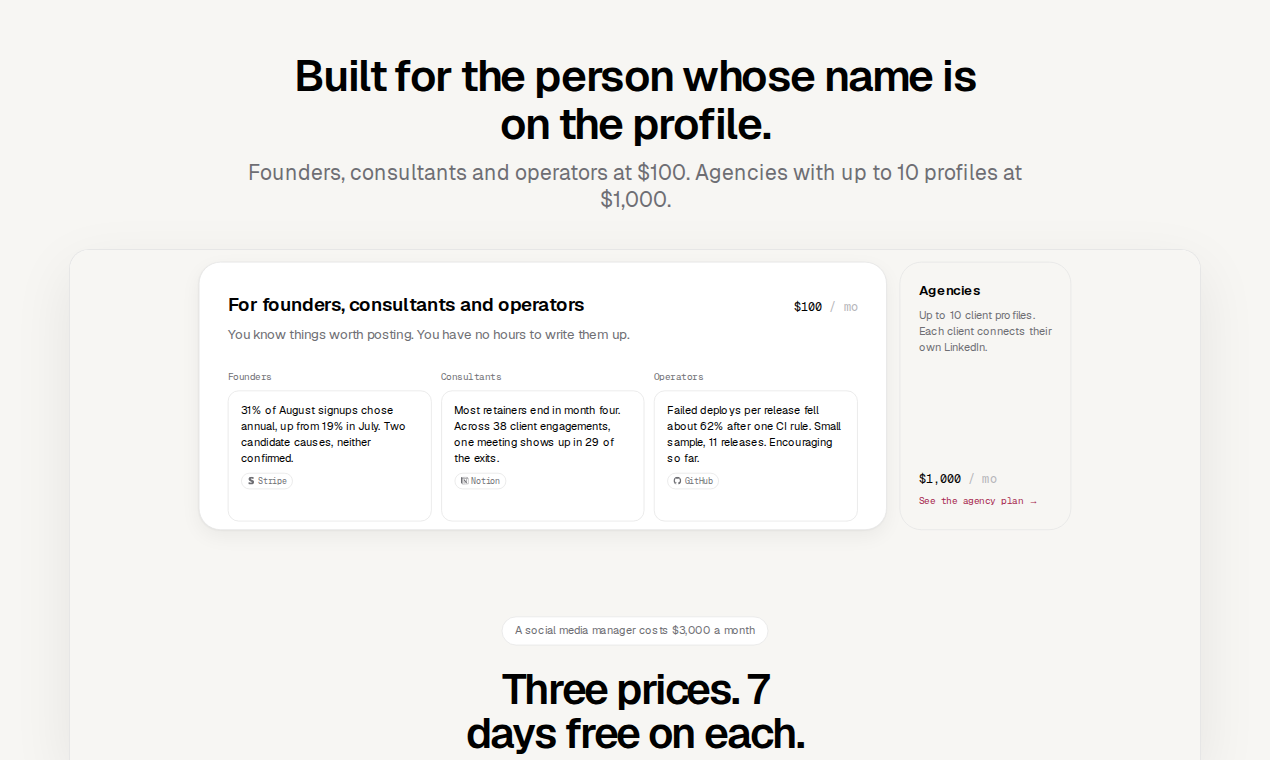
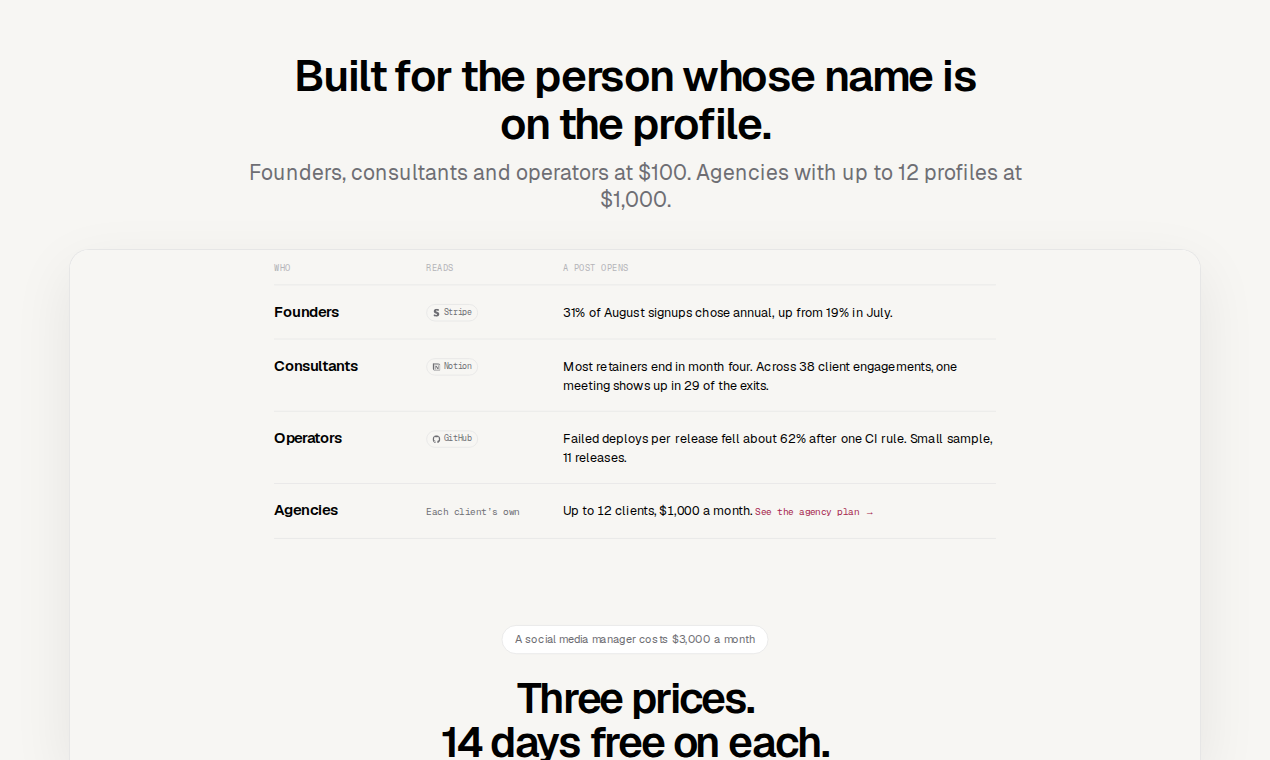
Agency covers up to 12 profiles, as the offer says
AGENCY_SEATS in lib/legal.ts was 10, while the offer in CLAUDE.md,
DECISIONS.md and the schema all say 12. It is now 12, and every page that
read it follows: landing page, pricing cards, footer, terms, docs,
settings, and the seat limit the Stripe webhook writes. Consultancy shares
the constant and moves to 12 with it.

The comparison pages and two blog posts had "up to 10" typed into the copy.
Those strings now read the constant. The Product Hunt kit and the gallery
captions say 12, and the gallery is regenerated from a local build.

share-export.ts now forces reduced motion, because the landing page's
reveal transitions run on the wall clock and the pricing slide was being
captured with two cards half faded in.

Claude-Session: https://claude.ai/code/session_0184tRc2cUZwb6aUefFBfYd7

diff --git a/lib/content/compare.ts b/lib/content/compare.ts
@@ -1,4 +1,5 @@
 import type { Comparison } from "./types";
+import { AGENCY_SEATS } from "@/lib/legal";
 
 export const COMPARISONS: Comparison[] = [
   {
@@ -44,7 +45,7 @@ export const COMPARISONS: Comparison[] = [
       {
         label: "Pricing model",
         them: "Free plan, then paid per connected channel",
-        us: "$100 a month per profile, $1,000 for up to 10. 14 days free",
+        us: `$100 a month per profile, $1,000 for up to ${AGENCY_SEATS}. 14 days free`,
       },
     ],
     chooseThem: [
@@ -92,7 +93,7 @@ export const COMPARISONS: Comparison[] = [
     summary:
       "Hootsuite is a complete social media suite, with scheduling, a shared inbox, listening and reporting across every major network in one place.",
     verdict:
-      "Pick Hootsuite if you run a brand's social presence across many networks and need an inbox, listening and reports for a team. Pick GoodSocials if the job is getting one person, or ten clients, posting on LinkedIn every day without writing the posts.",
+      "Pick Hootsuite if you run a brand's social presence across many networks and need an inbox, listening and reports for a team. Pick GoodSocials if the job is getting one person, or a dozen clients, posting on LinkedIn every day without writing the posts.",
     rows: [
       {
         label: "Built for",
@@ -127,7 +128,7 @@ export const COMPARISONS: Comparison[] = [
       {
         label: "Pricing model",
         them: "Per user, tiers by accounts and features, no permanent free plan",
-        us: "$100 a month per profile, $1,000 for up to 10. 14 days free",
+        us: `$100 a month per profile, $1,000 for up to ${AGENCY_SEATS}. 14 days free`,
       },
     ],
     chooseThem: [
@@ -168,7 +169,7 @@ export const COMPARISONS: Comparison[] = [
       { type: "h2", text: "Cost and fit" },
       {
         type: "p",
-        text: "Hootsuite prices per user, with tiers that add accounts and features, and a free trial rather than a free plan; check their pricing page for current numbers. For a team of three that bill grows quickly. GoodSocials is $100 a month per LinkedIn profile, or $1,000 a month for up to 10 profiles on Agency, with no per-seat charge.",
+        text: `Hootsuite prices per user, with tiers that add accounts and features, and a free trial rather than a free plan; check their pricing page for current numbers. For a team of three that bill grows quickly. GoodSocials is $100 a month per LinkedIn profile, or $1,000 a month for up to ${AGENCY_SEATS} profiles on Agency, with no per-seat charge.`,
       },
     ],
   },
@@ -215,7 +216,7 @@ export const COMPARISONS: Comparison[] = [
       {
         label: "Pricing model",
         them: "Per seat per month, tiers by feature, free trial",
-        us: "$100 a month per profile, $1,000 for up to 10. 14 days free",
+        us: `$100 a month per profile, $1,000 for up to ${AGENCY_SEATS}. 14 days free`,
       },
     ],
     chooseThem: [
@@ -251,7 +252,7 @@ export const COMPARISONS: Comparison[] = [
       { type: "h2", text: "Pricing" },
       {
         type: "p",
-        text: "Sprout Social charges per seat per month, with plan tiers that add features, and offers a free trial; check their pricing page for current rates. GoodSocials has no seats. It is $100 a month per LinkedIn profile, $1,000 for up to 10.",
+        text: `Sprout Social charges per seat per month, with plan tiers that add features, and offers a free trial; check their pricing page for current rates. GoodSocials has no seats. It is $100 a month per LinkedIn profile, $1,000 for up to ${AGENCY_SEATS}.`,
       },
     ],
   },
@@ -298,7 +299,7 @@ export const COMPARISONS: Comparison[] = [
       {
         label: "Pricing model",
         them: "Limited free plan, tiers by social sets, users and post limits",
-        us: "$100 a month per profile, $1,000 for up to 10. 14 days free",
+        us: `$100 a month per profile, $1,000 for up to ${AGENCY_SEATS}. 14 days free`,
       },
     ],
     chooseThem: [
@@ -382,7 +383,7 @@ export const COMPARISONS: Comparison[] = [
       {
         label: "Pricing model",
         them: "Tiered monthly plans, AI features on the higher tiers",
-        us: "$100 a month per profile, $1,000 for up to 10. 14 days free",
+        us: `$100 a month per profile, $1,000 for up to ${AGENCY_SEATS}. 14 days free`,
       },
     ],
     chooseThem: [
@@ -465,7 +466,7 @@ export const COMPARISONS: Comparison[] = [
       {
         label: "Pricing model",
         them: "Per profile tiers, a team plan for agencies, free trial",
-        us: "$100 a month per profile, $1,000 for up to 10. 14 days free",
+        us: `$100 a month per profile, $1,000 for up to ${AGENCY_SEATS}. 14 days free`,
       },
     ],
     chooseThem: [
@@ -501,7 +502,7 @@ export const COMPARISONS: Comparison[] = [
       { type: "h2", text: "Price and agency fit" },
       {
         type: "p",
-        text: "Supergrow is priced per profile in tiers with a separate team plan; check their pricing page, it changes often. It costs less than GoodSocials. The $100 a month buys the writing done without prompts, the gate and the persistence. For agencies, our $1,000 plan covers up to 10 profiles and each client authorises their own LinkedIn, so you never hold a password.",
+        text: `Supergrow is priced per profile in tiers with a separate team plan; check their pricing page, it changes often. It costs less than GoodSocials. The $100 a month buys the writing done without prompts, the gate and the persistence. For agencies, our $1,000 plan covers up to ${AGENCY_SEATS} profiles and each client authorises their own LinkedIn, so you never hold a password.`,
       },
     ],
   },
@@ -548,7 +549,7 @@ export const COMPARISONS: Comparison[] = [
       {
         label: "Pricing model",
         them: "Per user per month, team pricing, free trial",
-        us: "$100 a month per profile, $1,000 for up to 10. 14 days free",
+        us: `$100 a month per profile, $1,000 for up to ${AGENCY_SEATS}. 14 days free`,
       },
     ],
     chooseThem: [
@@ -631,7 +632,7 @@ export const COMPARISONS: Comparison[] = [
       {
         label: "Pricing model",
         them: "Free plan, then low monthly tiers by features and accounts",
-        us: "$100 a month per profile, $1,000 for up to 10. 14 days free",
+        us: `$100 a month per profile, $1,000 for up to ${AGENCY_SEATS}. 14 days free`,
       },
     ],
     chooseThem: [
@@ -718,7 +719,7 @@ export const COMPARISONS: Comparison[] = [
       {
         label: "Pricing model",
         them: "Per channel or a flat plan, free trial",
-        us: "$100 a month per profile, $1,000 for up to 10. 14 days free",
+        us: `$100 a month per profile, $1,000 for up to ${AGENCY_SEATS}. 14 days free`,
       },
     ],
     chooseThem: [
@@ -801,7 +802,7 @@ export const COMPARISONS: Comparison[] = [
       {
         label: "Pricing model",
         them: "Free plan, then base plan plus per account and per member",
-        us: "$100 a month per profile, $1,000 for up to 10. 14 days free",
+        us: `$100 a month per profile, $1,000 for up to ${AGENCY_SEATS}. 14 days free`,
       },
     ],
     chooseThem: [
@@ -884,7 +885,7 @@ export const COMPARISONS: Comparison[] = [
       {
         label: "Pricing model",
         them: "Tiered monthly plans by profiles, agency tiers, free trial",
-        us: "$100 a month per profile, $1,000 for up to 10. 14 days free",
+        us: `$100 a month per profile, $1,000 for up to ${AGENCY_SEATS}. 14 days free`,
       },
     ],
     chooseThem: [
@@ -920,7 +921,7 @@ export const COMPARISONS: Comparison[] = [
       { type: "h2", text: "Pricing and agencies" },
       {
         type: "p",
-        text: "SocialBee sells monthly tiers by number of profiles, plus agency tiers; check their pricing page for current details. For agencies focused on LinkedIn, GoodSocials is $1,000 a month for up to 10 client profiles, each with its own board, principles and themes, and each client authorises their own profile.",
+        text: `SocialBee sells monthly tiers by number of profiles, plus agency tiers; check their pricing page for current details. For agencies focused on LinkedIn, GoodSocials is $1,000 a month for up to ${AGENCY_SEATS} client profiles, each with its own board, principles and themes, and each client authorises their own profile.`,
       },
     ],
   },
@@ -967,7 +968,7 @@ export const COMPARISONS: Comparison[] = [
       {
         label: "Pricing model",
         them: "Free plan, then tiers by number of brands",
-        us: "$100 a month per profile, $1,000 for up to 10. 14 days free",
+        us: `$100 a month per profile, $1,000 for up to ${AGENCY_SEATS}. 14 days free`,
       },
     ],
     chooseThem: [
@@ -1003,7 +1004,7 @@ export const COMPARISONS: Comparison[] = [
       { type: "h2", text: "Pricing" },
       {
         type: "p",
-        text: "Metricool has a free plan and paid tiers set by number of brands; check their pricing page, it changes often. GoodSocials is $100 a month per profile or $1,000 for up to 10. Agencies often use a reporting tool alongside us.",
+        text: `Metricool has a free plan and paid tiers set by number of brands; check their pricing page, it changes often. GoodSocials is $100 a month per profile or $1,000 for up to ${AGENCY_SEATS}. Agencies often use a reporting tool alongside us.`,
       },
     ],
   },
@@ -1050,7 +1051,7 @@ export const COMPARISONS: Comparison[] = [
       {
         label: "Pricing model",
         them: "Per user per month, listening as a paid add-on",
-        us: "$100 a month per profile, $1,000 for up to 10. 14 days free",
+        us: `$100 a month per profile, $1,000 for up to ${AGENCY_SEATS}. 14 days free`,
       },
     ],
     chooseThem: [
@@ -1090,7 +1091,7 @@ export const COMPARISONS: Comparison[] = [
       { type: "h2", text: "Pricing" },
       {
         type: "p",
-        text: "Agorapulse charges per user per month, with listening sold separately; check their pricing page for current rates. GoodSocials charges per LinkedIn profile: $100 a month for one, $1,000 a month for up to 10, with no charge per team member.",
+        text: `Agorapulse charges per user per month, with listening sold separately; check their pricing page for current rates. GoodSocials charges per LinkedIn profile: $100 a month for one, $1,000 a month for up to ${AGENCY_SEATS}, with no charge per team member.`,
       },
     ],
   },
@@ -1137,7 +1138,7 @@ export const COMPARISONS: Comparison[] = [
       {
         label: "Pricing model",
         them: "Tiers by profiles and users, white label on higher plans",
-        us: "$100 a month per profile, $1,000 for up to 10. 14 days free",
+        us: `$100 a month per profile, $1,000 for up to ${AGENCY_SEATS}. 14 days free`,
       },
     ],
     chooseThem: [
@@ -1173,7 +1174,7 @@ export const COMPARISONS: Comparison[] = [
       { type: "h2", text: "Pricing" },
       {
         type: "p",
-        text: "Sendible prices by tiers of profiles and users, with white label on higher plans; check their pricing page for current details. GoodSocials Agency is $1,000 a month for up to 10 LinkedIn profiles. Consultancy is $2,000 a month for up to 10, with the founder setting it up with you and a weekly call.",
+        text: `Sendible prices by tiers of profiles and users, with white label on higher plans; check their pricing page for current details. GoodSocials Agency is $1,000 a month for up to ${AGENCY_SEATS} LinkedIn profiles. Consultancy is $2,000 a month for up to ${AGENCY_SEATS}, with the founder setting it up with you and a weekly call.`,
       },
     ],
   },
@@ -1220,7 +1221,7 @@ export const COMPARISONS: Comparison[] = [
       {
         label: "Pricing model",
         them: "Per workspace per month, add-ons for analytics and inbox",
-        us: "$100 a month per profile, $1,000 for up to 10. 14 days free",
+        us: `$100 a month per profile, $1,000 for up to ${AGENCY_SEATS}. 14 days free`,
       },
     ],
     chooseThem: [
@@ -1256,7 +1257,7 @@ export const COMPARISONS: Comparison[] = [
       { type: "h2", text: "Pricing" },
       {
         type: "p",
-        text: "Planable charges per workspace per month, with add-ons for analytics and engagement; check their pricing page, it changes often. GoodSocials charges per LinkedIn profile, $100 a month, or $1,000 for up to 10, with writing included.",
+        text: `Planable charges per workspace per month, with add-ons for analytics and engagement; check their pricing page, it changes often. GoodSocials charges per LinkedIn profile, $100 a month, or $1,000 for up to ${AGENCY_SEATS}, with writing included.`,
       },
     ],
   },
@@ -1303,7 +1304,7 @@ export const COMPARISONS: Comparison[] = [
       {
         label: "Pricing model",
         them: "Tiers by users and social accounts, free trial",
-        us: "$100 a month per profile, $1,000 for up to 10. 14 days free",
+        us: `$100 a month per profile, $1,000 for up to ${AGENCY_SEATS}. 14 days free`,
       },
     ],
     chooseThem: [
@@ -1339,7 +1340,7 @@ export const COMPARISONS: Comparison[] = [
       { type: "h2", text: "Pricing" },
       {
         type: "p",
-        text: "Loomly prices in tiers set by users and social accounts, with a free trial; check their pricing page for current rates. GoodSocials is $100 a month per LinkedIn profile and $1,000 for up to 10.",
+        text: `Loomly prices in tiers set by users and social accounts, with a free trial; check their pricing page for current rates. GoodSocials is $100 a month per LinkedIn profile and $1,000 for up to ${AGENCY_SEATS}.`,
       },
     ],
   },
@@ -1386,7 +1387,7 @@ export const COMPARISONS: Comparison[] = [
       {
         label: "Pricing model",
         them: "A single monthly plan, free trial",
-        us: "$100 a month per profile, $1,000 for up to 10. 14 days free",
+        us: `$100 a month per profile, $1,000 for up to ${AGENCY_SEATS}. 14 days free`,
       },
     ],
     chooseThem: [
@@ -1469,7 +1470,7 @@ export const COMPARISONS: Comparison[] = [
       {
         label: "Pricing model",
         them: "Tiered monthly plans, custom agency plan",
-        us: "$100 a month per profile, $1,000 for up to 10. 14 days free",
+        us: `$100 a month per profile, $1,000 for up to ${AGENCY_SEATS}. 14 days free`,
       },
     ],
     chooseThem: [
@@ -1480,7 +1481,7 @@ export const COMPARISONS: Comparison[] = [
     chooseUs: [
       "You want to post close to daily.",
       "You want posts to cite real numbers from your own tools.",
-      "You run up to 10 client profiles on one plan.",
+      `You run up to ${AGENCY_SEATS} client profiles on one plan.`,
     ],
     blocks: [
       { type: "h2", text: "The closest cousin" },
@@ -1510,7 +1511,7 @@ export const COMPARISONS: Comparison[] = [
       { type: "h2", text: "Pricing" },
       {
         type: "p",
-        text: "ContentIn sells tiered monthly plans and a custom agency plan; check their pricing page for current figures. It costs less than GoodSocials. Our $100 a month covers daily cadence, images and the quality gate, and Agency covers up to 10 profiles for $1,000.",
+        text: `ContentIn sells tiered monthly plans and a custom agency plan; check their pricing page for current figures. It costs less than GoodSocials. Our $100 a month covers daily cadence, images and the quality gate, and Agency covers up to ${AGENCY_SEATS} profiles for $1,000.`,
       },
     ],
   },
@@ -1557,7 +1558,7 @@ export const COMPARISONS: Comparison[] = [
       {
         label: "Pricing model",
         them: "Free tier, flat monthly plans, per seat for business",
-        us: "$100 a month per profile, $1,000 for up to 10. 14 days free",
+        us: `$100 a month per profile, $1,000 for up to ${AGENCY_SEATS}. 14 days free`,
       },
     ],
     chooseThem: [
@@ -1594,7 +1595,7 @@ export const COMPARISONS: Comparison[] = [
       { type: "h2", text: "Memory versus principles" },
       {
         type: "p",
-        text: "ChatGPT's memory is broad and decides for itself what to keep. GoodSocials keeps three short principles per profile, voice, visual and format, and changes them only when you revise a card. You can open them in settings and read exactly what the writer is following. For an agency running ten clients, that separation per profile matters.",
+        text: "ChatGPT's memory is broad and decides for itself what to keep. GoodSocials keeps three short principles per profile, voice, visual and format, and changes them only when you revise a card. You can open them in settings and read exactly what the writer is following. For an agency running a dozen clients, that separation per profile matters.",
       },
       { type: "h2", text: "Pricing" },
       {
@@ -1646,7 +1647,7 @@ export const COMPARISONS: Comparison[] = [
       {
         label: "Pricing model",
         them: "Per seat for individuals, quoted business plans, free trial",
-        us: "$100 a month per profile, $1,000 for up to 10. 14 days free",
+        us: `$100 a month per profile, $1,000 for up to ${AGENCY_SEATS}. 14 days free`,
       },
     ],
     chooseThem: [
@@ -1682,7 +1683,7 @@ export const COMPARISONS: Comparison[] = [
       { type: "h2", text: "Pricing" },
       {
         type: "p",
-        text: "Jasper sells per-seat plans for individuals and quoted plans for businesses, with a free trial; check their pricing page for current details. GoodSocials is $100 a month per profile, $1,000 for up to 10, and $2,000 for Consultancy, where the founder sets it up with you and holds a weekly call.",
+        text: `Jasper sells per-seat plans for individuals and quoted plans for businesses, with a free trial; check their pricing page for current details. GoodSocials is $100 a month per profile, $1,000 for up to ${AGENCY_SEATS}, and $2,000 for Consultancy, where the founder sets it up with you and holds a weekly call.`,
       },
     ],
   },

diff --git a/lib/content/blog-agency.ts b/lib/content/blog-agency.ts
@@ -216,7 +216,7 @@ export const AGENCY_POSTS: BlogPost[] = [
       },
       {
         type: "p",
-        text: "Now the tools. Suppose you run eight clients on GoodSocials' Agency plan, which is $1,000 a month for up to 10 profiles. Across eight clients that is 125 a month each. Your floor becomes 1,250 a month per client at that cadence, and anything below it means you are paying to work.",
+        text: `Now the tools. Suppose you run eight clients on GoodSocials' Agency plan, which is $1,000 a month for up to ${AGENCY_SEATS} profiles. Across eight clients that is 125 a month each. Your floor becomes 1,250 a month per client at that cadence, and anything below it means you are paying to work.`,
       },
       {
         type: "p",
@@ -358,7 +358,7 @@ export const AGENCY_POSTS: BlogPost[] = [
       { type: "h2", text: "How GoodSocials handles this" },
       {
         type: "p",
-        text: "On the Agency plan, each client connects their own LinkedIn profile, up to 10 profiles, and each gets its own board, themes and principles. GoodSocials emails you on day 50 of a client's connection, shows a banner on day 55, and on day 60 marks the connection dead and pauses that client's schedule instead of letting posts fail one by one.",
+        text: `On the Agency plan, each client connects their own LinkedIn profile, up to ${AGENCY_SEATS} profiles, and each gets its own board, themes and principles. GoodSocials emails you on day 50 of a client's connection, shows a banner on day 55, and on day 60 marks the connection dead and pauses that client's schedule instead of letting posts fail one by one.`,
       },
       {
         type: "p",
@@ -599,7 +599,7 @@ export const AGENCY_POSTS: BlogPost[] = [
       },
       {
         type: "p",
-        text: "A revise comment rewrites the card and updates the profile's brand principles, so a ghostwriter's corrections carry into every later draft. On the Agency plan, one ghostwriter can run up to 10 client profiles this way, each with its own board.",
+        text: `A revise comment rewrites the card and updates the profile's brand principles, so a ghostwriter's corrections carry into every later draft. On the Agency plan, one ghostwriter can run up to ${AGENCY_SEATS} client profiles this way, each with its own board.`,
       },
     ],
   },

diff --git a/scripts/share-export.ts b/scripts/share-export.ts
@@ -81,6 +81,10 @@ function shoot(html: string, width: number, height: number, out: string, waitMs 
     "--disable-gpu",
     "--no-sandbox",
     "--hide-scrollbars",
+    // The landing page reveals sections with CSS transitions, which run on the
+    // wall clock rather than the virtual time budget, so a gallery slide caught
+    // cards half faded in. Reduced motion shows every section finished.
+    "--force-prefers-reduced-motion",
     "--force-device-scale-factor=1",
     `--window-size=${width},${height}`,
     `--screenshot=${out}`,
@@ -139,12 +143,12 @@ const GALLERY: { anchor: string; skip: number; caption: string; line: string }[]
     anchor: "#who",
     skip: 330,
     caption: "Built for the person whose name is on the profile.",
-    line: "Founders, consultants and operators at $100. Agencies with up to 10 profiles at $1,000.",
+    line: "Founders, consultants and operators at $100. Agencies with up to 12 profiles at $1,000.",
   },
   {
     anchor: "#pricing",
     skip: 330,
-    caption: "$100 a month per profile. $1,000 for up to 10.",
+    caption: "$100 a month per profile. $1,000 for up to 12.",
     line: "14 days free, cancel any time.",
   },
 ];

diff --git a/lib/legal.ts b/lib/legal.ts
@@ -21,7 +21,7 @@ export const FOUNDER_LINKEDIN = "https://www.linkedin.com/in/pavelkucherbaev/";
 export const LAST_UPDATED = "24 September 2026";
 
 /** Seats on the agency and consultancy plans. The prices live in lib/plans.ts. */
-export const AGENCY_SEATS = 10;
+export const AGENCY_SEATS = 12;
 
 /** Hard cap from CLAUDE.md, counted in the database, stated in the terms. */
 export const IMAGE_CAP_PER_MONTH = 200;

diff --git a/docs/PRODUCT-HUNT.md b/docs/PRODUCT-HUNT.md
@@ -3,8 +3,8 @@
 Everything the Product Hunt form asks for, and the share cards every network
 reads from goodsocials.co. Copy is derived from the offer in CLAUDE.md and the
 live landing page. Where the two disagree, the landing page wins, because it is
-what a visitor from Product Hunt reads next: Agency is **up to 10 profiles**
-(`AGENCY_SEATS` in `lib/legal.ts`), not 12.
+what a visitor from Product Hunt reads next. Agency is **up to 12 profiles** in
+both, read from `AGENCY_SEATS` in `lib/legal.ts`.
 
 ## The form
 
@@ -53,7 +53,7 @@ post and the third person rule does not apply to it.
 >    named, deep dives with references, and your own numbers read from Stripe,
 >    PostHog, GitHub, Plausible or Notion. No "no one talks about this".
 >
-> Agencies run up to 10 client profiles for $1,000 a month, and each client
+> Agencies run up to 12 client profiles for $1,000 a month, and each client
 > connects their own LinkedIn, so nobody holds a password.
 >
 > 14 days free on every plan. I read every comment today, and the hardest
